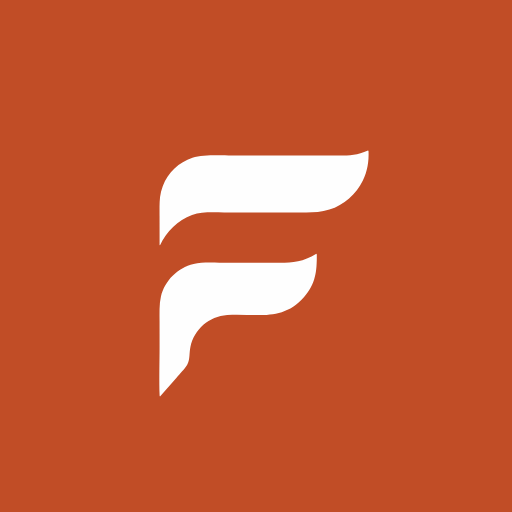
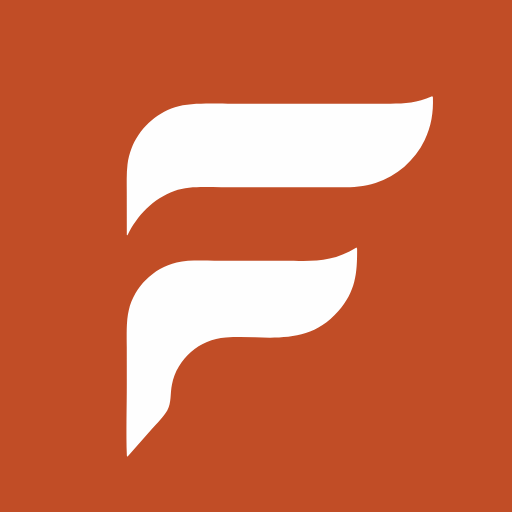
ajuste de tamanho de icones

Changed region(s): [[0.2188, 0.1875, 0.8438, 0.4688], [0.2188, 0.4688, 0.7188, 0.9062], [0.3438, 0.6875, 0.375, 0.75]]

diff --git a/app/login/page.tsx b/app/login/page.tsx
@@ -184,7 +184,7 @@ export default function LoginPage() {
         <CardHeader className="space-y-2 text-center pt-8 pb-6">
           <div className="mx-auto relative w-20 h-20 mb-2 drop-shadow-md">
             <Image
-              src="/icon-512x512.png"
+              src="public/logo-fusion-orange.png"
               alt="Fusion Clinic"
               fill
               className="object-contain"
